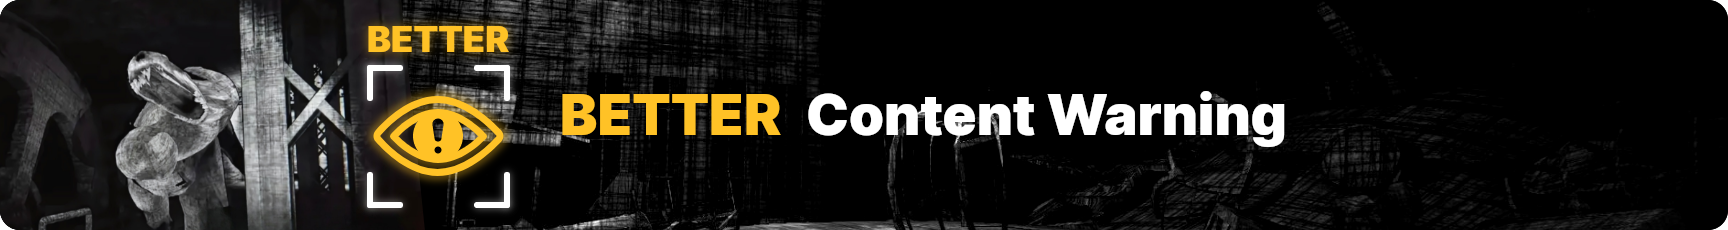
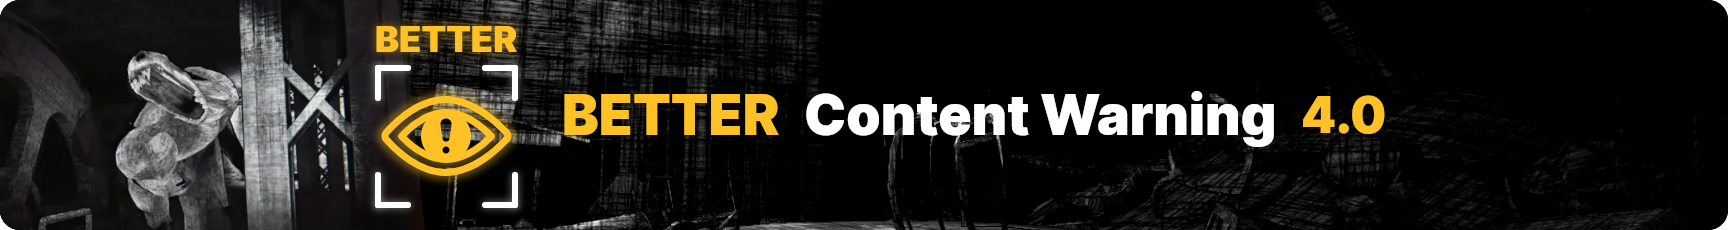
Version 4.0 - Compatible with Content Warning 1.24.0
Updated Mods, Added Mods, Removed Mods, Enhanced README

Changed region(s): [[0.1875, 0.2739, 0.375, 0.913], [0.4375, 0.3957, 0.8125, 0.6391], [0.1875, 0.0913, 0.3125, 0.2435]]

diff --git a/README.md b/README.md
@@ -4,58 +4,65 @@
 
 [![Thunderstore](https://img.shields.io/badge/THUNDERSTORE-black?style=for-the-badge&logo=thunderstore&logoColor=white&color=blue)](https://thunderstore.io/c/content-warning/p/Horizon/Better_Content_Warning_Modpack/) [![GitHub Release](https://img.shields.io/badge/GITHUB-black?style=for-the-badge&logo=github&logoColor=white&color=black)](https://github.com/Adler-real/Better_ContentWarning)
 
+## Ver. 4.0 Out! - Compatible with Content Warning 1.24.0
+> **🛈 Create a new blank Profile!**
+
 ### Features
 
 - 📄 Custom Configs!
-- 👥 The maximum number of players in the lobby is 8 *(Changable)*
-- 🎥 All players in the lobby have a Camera and must play together to reach quota
+- 🎥 All players in the lobby have a Camera and must play together to reach quota!
+- 🎥 Film twice as much!
 - 👹 More Monsters
 - 🛍 More Items
-- 🎨 More Colors for your Face
-- 🎨 More Customization for your Face
-- 🏃 Better & Longer Sprinting
 - 🎈 Longer Oxygen & Oxygen refill in the Diving Bell
-- ➕ You have a Crosshair
+- 🛎 Locate your bell by pressing `O`
 - 🤜 You can Push Your Friends by Pressing `E`
 - 💤 You can Ragdoll by Holding `ALT`
+- 🎉 Infinity Popper
 - 🚀 And more!
 
-### Changes (Edited Configs)
+
+### Recommended Mods¹
+
+> **🛈** Most mods available on Thunderstore no longer work properly
+> or are missing functionality. *You can use these alternatives by subscribing to them through the Steam Workshop. After subscribing, launch the game through r2modman/Thunderstore as usual*.
+
+- [🎨 More Visor Colors](https://steamcommunity.com/sharedfiles/filedetails/?id=3389296239)
+- [🎨 SuitColors](https://steamcommunity.com/sharedfiles/filedetails/?id=3386777900)
+- [💃 MoveWhileEmoting](https://steamcommunity.com/sharedfiles/filedetails/?id=3400743377)
+- [🤹 BetterEmoteWheel](https://steamcommunity.com/sharedfiles/filedetails/?id=3713950436)
+- [👥 Virality - Bigger lobbies](https://steamcommunity.com/sharedfiles/filedetails/?id=3384282236)
+
+### Edited Configs
 
 <details>
-<summary>Show 👇</summary>
+<summary> Collapse </summary>
 
-- __CWMissing Configs__
-  -  
-- __LongerSprinting Configs__
-  - Changed `MaxStamina` from `Mod Default Value: 20` to `13` _(Game Default: `10`)_
-  - Changed `StaminaRegenRate` from `Mod Default Value: 2` to `0.65` _(Game Default: `0`)_
-  - Changed `SprintMultiplyer` from `Mod Default Value: 2.3` to `2.2` _(Game Default: `1.0`)_
-- __BetterOxygen Configs__
-  - Changed `Refill oxygen inside the diving bell?` from `Mod Default Value: false` to `true`
-  - Changed `Maximum Oxygen (Minutes)` from `Mod Default Value: 10` to `15`
-- __Virality Configs__
-  - Changed `MaxPlayers` from `Mod Default Value: 12` to `8` _(Game Default: `4`)_
-- __CrossHair Configs__
-  - Changed `CrossHairSize` from `Mod Default Value: 40` to `25`
-  - Changed `CrossHairOpacity` from `Mod Default Value: 80` to `10`
-- __Dont Trip Configs__
-  - Changed `Tripping Chance` from `Mod Default Value: 5` to `1`
-  - Changed `Damage Amount` from `Mod Default Value: 5` to `3`
-  - Changed `Drop Item` from `Mod Default Value: true` to `false`
+- **CWMissing**
+    * *look at `Better_ContentWarning/configs/DAa Mods/CWMissing/config.cfg`*
+- **Film Increaser**
+    * Changed `MaxFilmLength` from `Game Default Value: 90` to `180`
+- **BetterOxygen**
+    * Changed `Refill oxygen inside the diving bell?` from `Mod Default Value: false` to `true`
+    * Changed `Maximum Oxygen (Minutes)` from `Mod Default Value: 10` to `15`
+- **Dont Trip**
+    * Changed `Tripping Chance` from `Mod Default Value: 5` to `1`
+    * Changed `Damage Amount` from `Mod Default Value: 5` to `3`
+    * Changed `Drop Item` from `Mod Default Value: true` to `false`
+
 </details>
+
 
 ### Known Issues
 
-- This modpack might stop working after game updates.
+> **🛈** This modpack might stop working after game updates.
 
-- I can’t fully test [Virality](https://thunderstore.io/c/content-warning/p/MaxWasUnavailable/Virality/), but it should work. Found a bug? [Open an issue ↗](https://github.com/Adler-real/Better_ContentWarning/issues/new)
+> **🛈** Version 4.0 was not tested in Multiplayer.
 
-- The `Toggle Mute` and `Push to Mute` options are currently not working. Only the voice indicator functions properly in the [Toggle Mute](https://thunderstore.io/c/content-warning/p/Computery/Toggle_Mute/) mod.
 
 
 ### Suggestions / Report Bugs
 
-- Found a bug or have a mod you'd like to see added? [Open an issue ↗](https://github.com/Adler-real/Better_ContentWarning/issues/new)
+- Found a bug or have a mod you'd like to see added? [Open an Issue ↗](https://github.com/Adler-real/Better_ContentWarning/issues/new)
 
 

diff --git a/CHANGELOG.md b/CHANGELOG.md
@@ -1,6 +1,44 @@
 # Changelog
 
-- Create a new blank profile each time you update the Modpack to ensure everything works correctly. (This is necessary because the Mod Manager does not remove mods during updates.)
+- **Create a new blank profile each time you update the Modpack** to ensure everything works correctly. (This is necessary because the Mod Manager does not remove mods during updates.)
+
+## v4.0.0 - 2026-10-07
+
+### Compatible with Content Warning 1.24.0
+
+### Updated
+
+- [BepInExPack](https://thunderstore.io/c/content-warning/p/BepInEx/BepInExPack/) updated from `5.4.2100` to `5.4.2305`
+- [DetourContext Dispose Fix](https://thunderstore.io/c/content-warning/p/Hamunii/DetourContext_Dispose_Fix/) updated from `v1.0.7` to `v1.0.9`
+- [AutoHookGenPatcher](https://thunderstore.io/c/content-warning/p/Hamunii/AutoHookGenPatcher/) updated from `1.0.9` to `1.1.1`
+- [ContentPOVs](https://thunderstore.io/c/content-warning/p/gingerphoenix10/ContentPOVs/) updated from `1.3.6` to `1.3.7`
+
+### Added
+
+- [Unlisted Entities](https://thunderstore.io/c/content-warning/p/BD/Unlisted_Entities/) <small>by <a href="https://thunderstore.io/c/content-warning/p/BD/">BD</a></small>
+	- <small>Dependency</small> [DBs Content API](https://thunderstore.io/c/content-warning/p/BD/DBs_Content_API/) <small>by [BD](https://thunderstore.io/c/content-warning/p/BD/)</small>
+- [InfinitePopper](https://thunderstore.io/c/content-warning/p/h3nw/InfinitePopper/) <small>by [h3nw](https://thunderstore.io/c/content-warning/p/h3nw/)</small>
+- [CapsulePath](https://thunderstore.io/c/content-warning/p/Largo/CapsulePath/) <small>by [Largo](https://thunderstore.io/c/content-warning/p/Largo/)</small>
+- [FilmIncreaser](https://thunderstore.io/c/content-warning/p/rr134/FilmIncreaser/) <small>by [rr134](https://thunderstore.io/c/content-warning/p/rr134/)</small>
+
+### Removed
+
+- [Fall Fix](https://thunderstore.io/c/content-warning/p/Computery/Fall_Fix/)
+    * should be fixed by game
+- [Surface Die Fix](https://thunderstore.io/c/content-warning/p/ElectricSteve/Surface_Die_Fix/)
+    * should be fixed by game
+- [LongerSprinting](https://thunderstore.io/c/content-warning/p/AnthonyStai/LongerSprinting/)
+    * issues: regenerates stamina infinitely
+    * *game's default is long enough*
+- [Virality](https://thunderstore.io/c/content-warning/p/MaxWasUnavailable/Virality/)
+    * Use the [Steam Workshop version](https://steamcommunity.com/sharedfiles/filedetails/?id=3384282236) instead¹
+- [Toggle Mute](https://thunderstore.io/c/content-warning/p/Computery/Toggle_Mute/)
+    * issues: game doesn't start
+- [MoreColors](https://thunderstore.io/c/content-warning/p/ViViKo/MoreColors/)
+    * Use [More Visor Colors at Steam Workshop](https://steamcommunity.com/sharedfiles/filedetails/?id=3389296239) instead¹
+- [CrossHair](https://thunderstore.io/c/content-warning/p/CTWOriginals/CrossHair/)
+- [ContentSettings](https://thunderstore.io/c/content-warning/p/CommanderCat101/ContentSettings)
+- [SnoringWarning](https://thunderstore.io/c/content-warning/p/cyclozarin/SnoringWarning/)
 
 ## v3.1.2 - 2025-11-02
 
